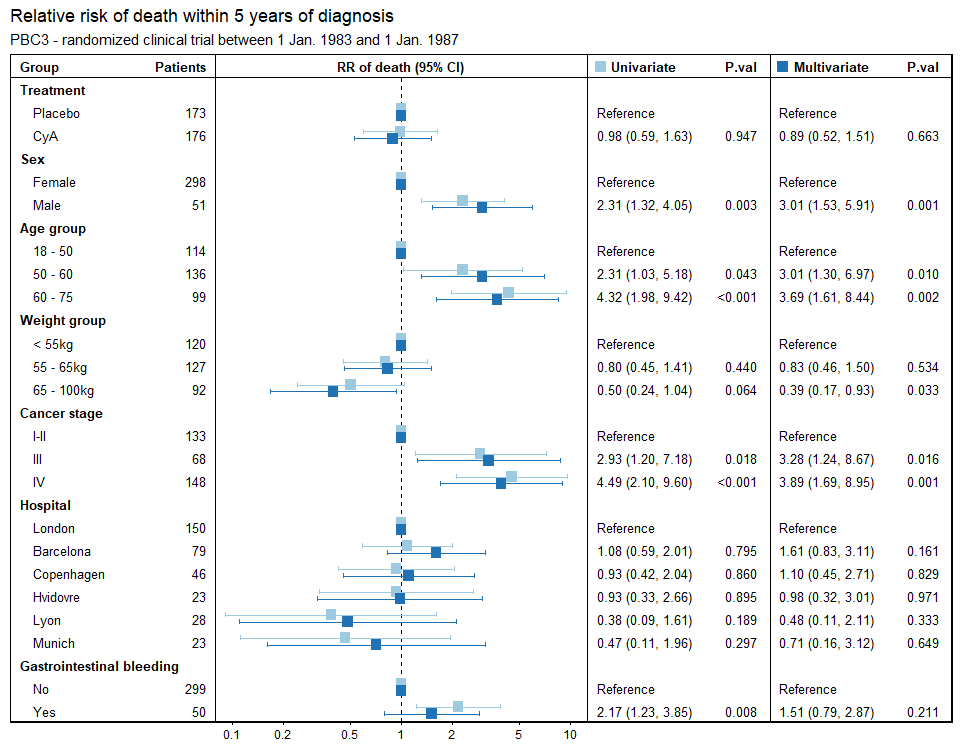
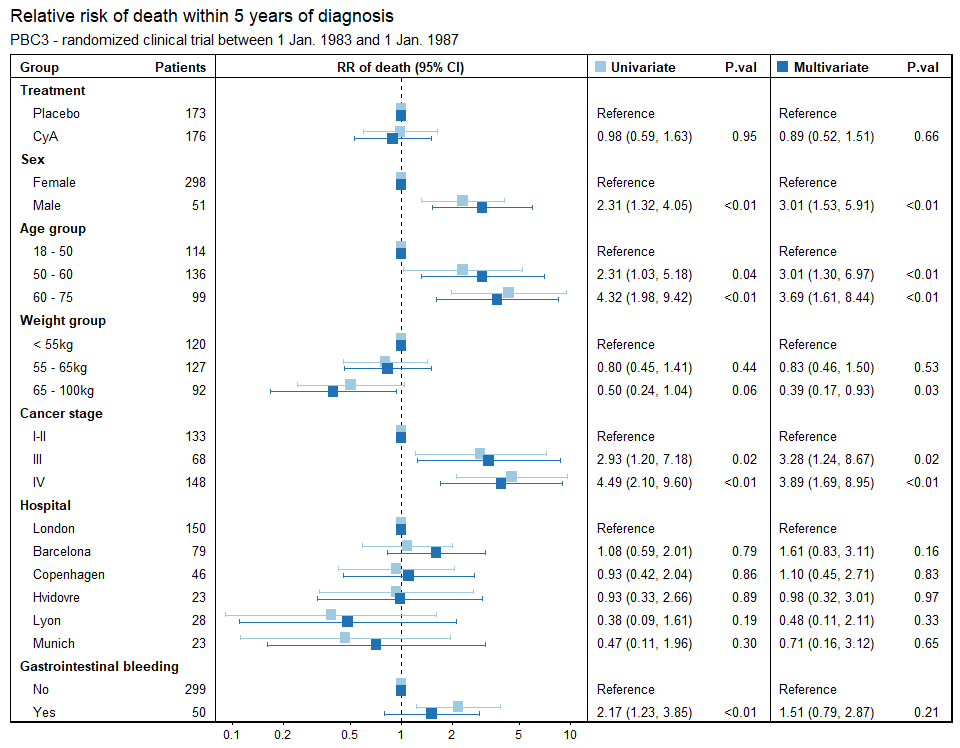
fixed a few things (CI)

diff --git a/README.md b/README.md
@@ -196,7 +196,7 @@ Female
 60 - 75
 </td>
 <td style="text-align:left;">
-&lt; 55kg
+\< 55kg
 </td>
 <td style="text-align:left;">
 IV
@@ -222,7 +222,7 @@ Female
 60 - 75
 </td>
 <td style="text-align:left;">
-&lt; 55kg
+\< 55kg
 </td>
 <td style="text-align:left;">
 IV
@@ -291,7 +291,8 @@ mforestmodel(pb, dependent="dead5yr", lim=c(-2.4,2.4),
              pala="#2171b5", palb="#9ecae1", 
              #legend_position = c(0.55,0.93), 
              spaces = c(0.015,0.22,0.2,0.005,0.2,0.02),
-             header = c("Group","Patients","RR of death (95% CI)","Univariate","P.val","Multivariate","P.val")) + 
+             header = c("Group","Patients","RR of death (95% CI)","Univariate","P.val","Multivariate","P.val"),
+             p_ci = 1, p_eps=0.01) + 
   labs(title="Relative risk of death within 5 years of diagnosis",
        subtitle="PBC3 - randomized clinical trial between 1 Jan. 1983 and 1 Jan. 1987")
 ```
